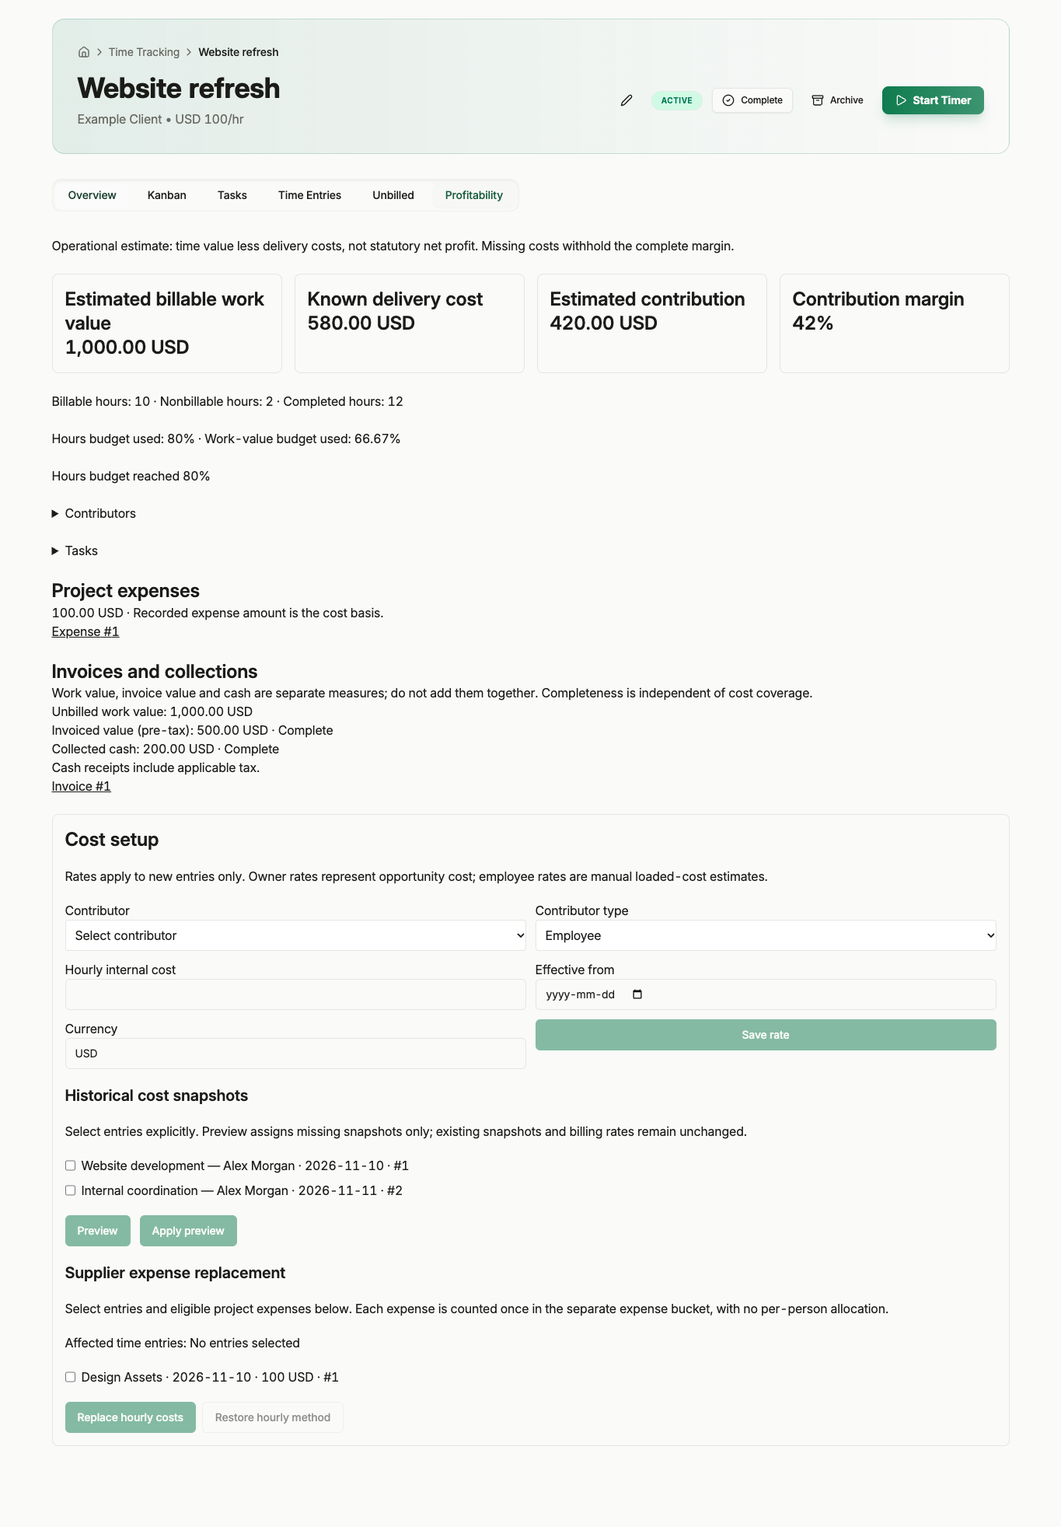
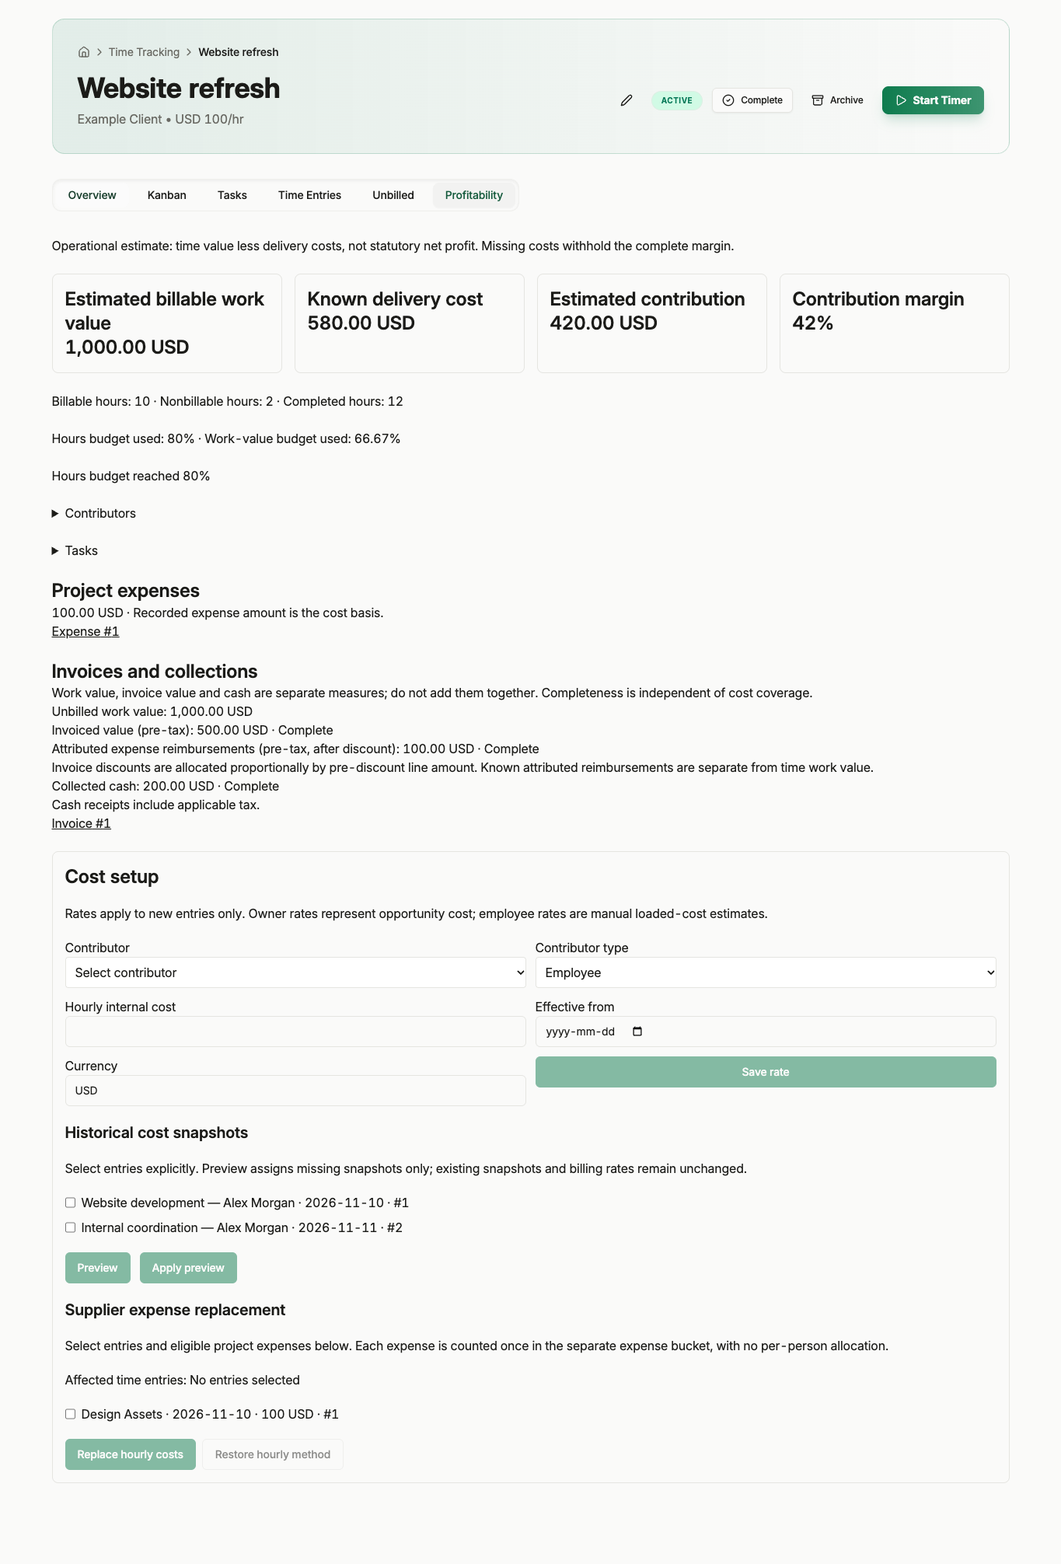
docs(projects): finalize profitability validation and decisions

diff --git a/docs/test-reports/project-profitability-2026-11-12/VALIDATION.md b/docs/test-reports/project-profitability-2026-11-12/VALIDATION.md
@@ -1,0 +1,130 @@
+# Task 7 — backend integration and delivery evidence
+
+## Result and source identity
+
+Implementation commit: `2958cb7078451a729543060726b26e893aa4f2a9`, based on `5db4b992`. No push, merge, release, or deployment. Documentation/screenshots/localized reason text: `a773f96b6fa1a20ebc018b16a599bd5548b7ba31`; final build documentation: `569dd866` (HEAD). Production/test source remains `2958cb70`.
+
+Remote tests used the existing `yourfinanceworks-api:latest` image ID `sha256:f3e54079e8b0665a8da9419e2471b84c23043fa0640fb43897bea3d01d23f54e`. Candidate source was mounted readonly at `/candidate`; Python path explicitly prioritized `/candidate/api` and the copied pytest runner. No packages were installed. Importing the real router and authentication dependency succeeded with isolated nonproduction secrets. The shared API conftest was never loaded (`--noconftest`).
+
[1 lines of base64/hex data omitted]
+
+## Implemented verification and small fixes
+
+- New integration file imports actual FastAPI routers and uses actual JWT validation, actual `get_current_user`, actual tenant `get_db`, and real isolated master/two-tenant ORM databases. Only database factories are redirected; authentication is never overridden. It exercises two contributor rates, manual creation, CSV import, timer start/stop, supplier replacement, legacy preview/apply, invoice generation, canonical partial-payment records, and the final profitability read. It verifies unauthenticated/invalid tokens, ordinary-member cost denial, cross-tenant selection denial, foreign tenant absence, ordinary API responses, and CSV export without private cost fields. The fixture's tenant-context middleware substitutes for full application tenant middleware; this does not claim verification of the complete application middleware stack.
+- Actual disposable PostgreSQL test invokes Alembic `env.py`, stamps 027, upgrades through 028/029/030, preserves legacy monetary rows/unknown costs, and checks additive table column/nullability parity with new-tenant metadata. Each run creates and drops a uniquely named disposable schema, never shared service schemas. Earlier tests separately create new-tenant ORM tables and compare the migration schema.
+- PostgreSQL transaction races: synchronize two actual rate inserts after both pass existence checks; exactly one succeeds and the other returns 409. A savepoint now translates the unique-key race to the friendly conflict without masking unrelated integrity errors. A strengthened test simultaneously applies one two-entry preview twice; project/entry locking yields one application and one stale-preview 409, with both snapshots present exactly once. **Strengthened test: 1 passed in 4.55s**.
+- HTTP multi-entry stale preview test changes one selected entry and proves neither receives a snapshot after 409.
+- Source uniqueness now checks distinct invoice lines attempting to reuse one time/expense source. Plugin-absent subprocess exercises actual loader model import/router registration and metadata creation.
+- Tests resolve repository sources from `__file__`, supporting the specified `cd api` command. Removed brittle creation-path spelling assertions now superseded by HTTP behavior.
+- Billing reads batch invoices/items/provenance/payments, retaining the existing low-query empty-invoice path. Status reasons distinguish unsupported ordinary invoice states from credit/refund states. Query-scaling regression verifies a constant number of queries from 1 to 12 invoices.
+- Controller browser checks found async time-entry links could need scrolling after rows loaded. Added a location-aware, tested hook selecting Time Entries and scrolling when the row exists. Existing row anchors are retained. Invoice links use canonical `/invoices/view/:id` (the older route also redirects correctly).
+- Controller mobile check found header actions/tabstrip overflow. Project actions wrap; the tab strip scrolls inside its bounded width. No broad shared-layout redesign.
+
+## Commands and results
+
+Remote container environment: `PYTHONPATH=/candidate/api:/test-runner PYTEST_DISABLE_PLUGIN_AUTOLOAD=1 PYTHONDONTWRITEBYTECODE=1 LICENSE_PUBLIC_KEY_V2=test SECRET_KEY=profitability-isolated-test-secret-not-production JWT_SECRET_KEY=profitability-isolated-test-secret-not-production DATABASE_URL=postgresql://postgres:task1-disposable@127.0.0.1:5432/postgres UPLOAD_PATH=/tmp/attachments`. PostgreSQL tests additionally set the explicit `PROFITABILITY_TEST_DATABASE_URL` to that disposable URL and use `--network container:yfw-profitability-task1-pg`. HTTP-only/query tests use `--network none`; HTTP fixture databases are disposable SQLite files.
+
+From `/candidate/api`:
+
+```sh
+python -m pytest --noconftest -o addopts= -o cache_dir=/tmp/pytest-cache \
+  tests/test_project_profitability_migration.py tests/test_project_cost_permissions.py \
+  tests/test_project_cost_lifecycle.py tests/test_project_profitability.py \
+  tests/test_project_invoice_attribution.py tests/test_project_profitability_integration.py -q
+```
+
+**113 passed**. Separate final additions: concurrent rate/backfill test **1 passed**; committed query-scaling regression **1 passed**. All 114 current cases have passing evidence, though the final extra test was deliberately run focused rather than repeating the two-minute HTTP fixture suite. Initial actual HTTP/auth-only run: **4 passed in 120.34s**.
+
+Local cwd `api`, copied venv, plugin autoload disabled, same first five files: **107 passed, 2 skipped in 5.36s** before the final extra query test (which passed independently). Skips require explicit disposable PostgreSQL configuration. Local environment lacks some production dependencies, so real HTTP imports use the production-dependency image instead. No dependency installs attempted.
+
+Red/green: introduced batching initially exceeded the existing no-invoice query budget (11 versus at most 7); restored the no-invoice fast path and the focused suite passed. For the new scaling regression, temporarily restoring the pre-fix `5db4b992` attribution module produced **1 failed**, 41 queries for 12 invoices versus 8 for one. Restoring the committed batching implementation produced **1 passed** (0.65s). No claim of a pre-fix red run is made for the concurrency/HTTP tests.
+
+Frontend: existing local binary `ui/node_modules/.bin/vitest run` over `ProjectProfitability.test.tsx`, `ProjectCostSetup.test.tsx`, `profitability-hooks.test.tsx`, and `useProjectEntryLink.test.tsx`: **4 files, 18 passed in 1.51s**. Scoped ESLint of the new hook/test and profitability component passes. ProjectDetail retains its pre-existing three `no-explicit-any` findings; no new ones were added. `git diff --check` passes.
+
+Task 6 independently compared full lint baseline/current at **1,377 existing problems** and reproduced root build failures from unrelated untracked statement-tools imports against archived unchanged source. Its clean-source build passed. Controller final clean-source `npm run build` completed with exit 0 in 1.75s on the integration-stage source, with existing dynamic-import warnings. See Task 6 report for comparison commands/logs.
+
+## Browser evidence and boundaries
+
+Controller captured five actual Chrome screenshots using source components/hooks/translations/styles with synthetic HTTP fixtures: complete, incomplete, empty, ordinary-member unauthorized, and 390px mobile. After the scoped responsive fixes, all scenarios had zero page errors and the mobile document stayed within viewport width. Screenshots and their exact fixture boundary are in `docs/test-reports/project-profitability-2026-11-12/README.md`. This is real browser presentation and frontend authorization handling, not a deployed backend browser session.
+
+Partial payment is registered via the canonical tenant Payment ORM model in the HTTP integration flow. The independently licensed/notification-bearing payment HTTP route is not mounted by that isolated app. Expenses are likewise seeded ORM records rather than exercising the separate expense-creation HTTP router. Ordinary time creation/import/timer and project invoice generation are actual HTTP routes. Generic monthly time export is actual HTTP. Client portal/MCP/notification runtime was not exercised by this task; source/schema exclusions and prior focused checks are narrower evidence. Full production middleware, live-service tenant migration, real provider integrations, and customer data were not touched.
+
+Feature documentation describes operational cost basis, supplier expense reconciliation, missing-only historical backfill, authorization, unsupported fixed/retainer modes, and unallocated invoice/payment limitations. TODO records implemented branch scope without claiming deployment. This feature and migrations warrant a normal feature release/version assessment and release notes; no publishing is authorized here. Whole-branch review remains the controller's next gate.
+
+Controller reported independent Task 7 review approved with no Critical/Important findings; whole-branch review is in progress.
+
+
+# Final review fixes
+
+# Final review fixes
+
+Base: `569dd866`, branch `feat/hourly-project-profitability-local`. One focused fix wave addresses the two Important and two Minor final-review findings. No push, deployment, production migration, dependency installation, or release.
+
+## Changes
+
+- **Important 1:** `TimeEntryCostExpense.expense_id` now preserves the historical expected expense ID independently of the live expense row. Migration031 removes only the cascading expense foreign key, retaining the entry FK and all existing link rows; new-tenant metadata matches. Existing protected replacement validation still requires active, same-project, matching-currency expenses. A missing expected ID keeps supplier time unresolved even when another linked expense survives. Explicit administrator replacement removes obsolete links and retains their IDs in private revision history.
+- **Important 2:** private billing summaries now expose `expense_reimbursements_pre_tax` separately. Fully attributed expense-line amounts receive their proportional share of supported invoice discounts according to pre-discount line amounts. Each invoice's resulting reimbursement is rounded to project-currency precision. Unsupported/incompletely attributed invoices contribute no reimbursement; previously known invoices retain known totals with an incomplete indicator. Time work value and contribution are unchanged. The UI labels pre-tax/after-discount amounts and discloses the allocation basis in all four existing locales.
+- **Minor 1:** rate save, preview, apply, supplier replacement, and hourly restoration each have localized action-specific failure guidance. Only an apply409 receives stale-preview refresh guidance. Multi-entry replacement errors acknowledge that not all selected entries may have succeeded.
+- **Minor 2:** setup forms, action handlers, contributor/task breakdowns, and billing JSX are expanded for reviewability, with no redesign. Feature documentation records reimbursement rules and migrations028–031.
+
+## Verification
+
+Never loaded the shared destructive API conftest. Local backend environment prefix for all commands:
+
+```sh
+PYTHONPATH=api PYTHONDONTWRITEBYTECODE=1 LICENSE_PUBLIC_KEY_V2=test PYTEST_DISABLE_PLUGIN_AUTOLOAD=1 \
+/private/tmp/yfw-profitability-venv/bin/python -m pytest --noconftest -o addopts= -o cache_dir=/tmp/yfw-final-cache
+```
+
+1. Prefix plus `api/tests/test_project_cost_permissions.py api/tests/test_project_cost_lifecycle.py api/tests/test_project_profitability.py api/tests/test_project_invoice_attribution.py api/tests/test_project_profitability_migration.py -q`: **116 passed, 2 skipped in 5.89s**. The two skips require explicit disposable PostgreSQL configuration. This covered the new FK-enabled soft-delete→hard-delete of one of two supplier links, retained missing coverage, and explicit relink recovery with private history; six mixed/expense-only percentage/fixed/capped-discount cases; actual migrated expense deletion; and existing feature regressions.
+2. After strengthening assertions to check unchanged time work value, partial known reimbursement totals, and metadata FK parity, prefix plus `api/tests/test_project_invoice_attribution.py api/tests/test_project_profitability_migration.py -q`: **49 passed, 1 skipped in 3.22s**. This adds one parameterized expense-only known-total case.
+3. After further strengthening the migration regression to insert both links **before** migration031, prefix plus `api/tests/test_project_profitability_migration.py::test_migrated_supplier_evidence_survives_actual_expense_delete -q`: **1 passed in 0.51s**. Both pre-existing rows survive table migration and the subsequent actual delete.
+
+Remote candidate source: `/tmp/yfw-profitability-xz3dwgya/final-source`, readonly `/candidate`. Existing API image `yourfinanceworks-api:latest` and existing copied pytest runner; no package installs. Disposable PostgreSQL container `yfw-profitability-task1-pg`, never application databases. Command wrapper:
+
+```sh
+ssh -o BatchMode=yes -o ConnectTimeout=10 hao@10.0.0.165 \
+'docker run --rm --network container:yfw-profitability-task1-pg \
+-v /tmp/yfw-profitability-xz3dwgya/final-source:/candidate:ro \
+-v /tmp/yfw-profitability-xz3dwgya/runner:/test-runner:ro -w /candidate/api \
+-e PYTHONPATH=/candidate/api:/test-runner -e PYTEST_DISABLE_PLUGIN_AUTOLOAD=1 \
+-e PYTHONDONTWRITEBYTECODE=1 -e LICENSE_PUBLIC_KEY_V2=test \
+-e SECRET_KEY=profitability-isolated-test-secret-not-production \
+-e JWT_SECRET_KEY=profitability-isolated-test-secret-not-production \
+-e DATABASE_URL=postgresql://postgres:task1-disposable@127.0.0.1:5432/postgres \
+-e PROFITABILITY_TEST_DATABASE_URL=postgresql://postgres:task1-disposable@127.0.0.1:5432/postgres \
+-e UPLOAD_PATH=/tmp/attachments yourfinanceworks-api:latest \
+python -m pytest --noconftest -o addopts= -o cache_dir=/tmp/pytest-cache TEST_FILES -q'
+```
+
+- `TEST_FILES=tests/test_project_profitability_migration.py tests/test_project_profitability.py tests/test_project_invoice_attribution.py`: **82 passed in 19.75s**. Actual Alembic env.py traversal027→031, PostgreSQL migrated delete, new-tenant metadata, and all new calculation/relink tests passed. Remote source includes all final production changes; the later test-only assertion strengthening and extra parameterized case above were verified locally.
+
+Red/green proof: extracted `git archive 569dd866 api` to `/private/tmp/yfw-final-red-mjvaz7ov`, copied only the two new test files, and ran the supplier soft→hard-delete test and mixed fixed-discount reimbursement test with the same isolated local Python/environment. **2 failed in 0.84s**, respectively falsely complete supplier coverage and missing reimbursement field. Ran those exact node IDs against the final candidate: **2 passed in 0.76s**. No candidate source was temporarily reverted.
+
+Frontend commands from `ui`:
+
+```sh
+node_modules/.bin/vitest run \
+ src/plugins/time_tracking/plugin/ui/components/ProjectProfitability.test.tsx \
+ src/plugins/time_tracking/plugin/ui/components/ProjectCostSetup.test.tsx \
+ src/plugins/time_tracking/plugin/ui/profitability-hooks.test.tsx \
+ src/plugins/time_tracking/plugin/ui/useProjectEntryLink.test.tsx
+node_modules/.bin/eslint \
+ src/plugins/time_tracking/plugin/ui/components/ProjectCostSetup.tsx \
+ src/plugins/time_tracking/plugin/ui/components/ProjectCostSetup.test.tsx \
+ src/plugins/time_tracking/plugin/ui/components/ProjectProfitability.tsx \
+ src/plugins/time_tracking/plugin/ui/components/ProjectProfitability.test.tsx \
+ src/plugins/time_tracking/plugin/ui/profitability-api.ts
+```
+
+**4 files, 26 tests passed in 1.60s**; scoped lint exit0 with no output. The error matrix covers apply409 refresh guidance, apply500/403, preview500/409, rate-save409, supplier-replacement409, and hourly-restore409. Reimbursement UI regression checks the separately labeled amount, basis explanation, and unchanged work-value headline. Existing Vite configuration warnings remain. `git diff --check` passes.
+
+Controller independently reports final clean-source frontend build exit0 in 2.52s and all five Chrome fixture states with zero page errors/mobile overflow false. Controller inspected the mobile screenshot's separate reimbursement and allocation explanation and owns the refreshed screenshots/source README commit. These are frontend synthetic-HTTP presentation checks, not deployed-service verification. Existing Task7 integration boundaries still apply; no claim of full middleware, payment/expense-creation HTTP, MCP/portal/notification runtime, or deployed tenant migration coverage.
+
+- Same remote wrapper with `TEST_FILES=tests/test_project_cost_permissions.py tests/test_project_cost_lifecycle.py tests/test_project_profitability_integration.py`: **40 passed, 21 existing dependency/schema deprecation warnings in 122.51s**. This includes actual authenticated HTTP profitability reads, source creation/import/timers/invoice workflow, tenant authorization, private-schema boundaries, and disposable PostgreSQL concurrency. All final production files were present.
+
+All four final-review findings are addressed; no known blocking finding remains in this fix wave. Controller owns the single scoped rereview and integration decision. The feature and migrations warrant the normal feature-release/version assessment, without publishing authorization.
+
+Controller verification of final UI72538ad1: clean-source production build exited0 in2.52s; all five Chrome scenarios had zero page errors and390px mobile had no horizontal overflow. Updated screenshots include the reimbursement amount and discount basis.
+
+Final independent scoped review of569dd866..72538ad1: ready to merge; all four findings addressed, no new blocking issues. Migration031 downgrade deliberately fails if missing-expense evidence exists; rollback requires deliberate reconciliation. Reviewer inspected code/tests but did not rerun them.

diff --git a/docs/test-reports/project-profitability-2026-11-12/DECISIONS.md b/docs/test-reports/project-profitability-2026-11-12/DECISIONS.md
@@ -1,0 +1,19 @@
+# Implementation decisions
+
+These decisions were made during the approved implementation. Potential costs are included so they can be reviewed before integration.
+
+1. Use isolated dependency/test fixtures because the shared conftest drops its configured database. Cost: extra harness setup and narrower application-stack coverage.
+2. Use disposable PostgreSQL and isolated API containers, never the service database. Cost: production configuration and migration execution remain unverified.
+3. Request permission for managed-worktree writes outside writable roots. Cost: approval interruptions.
+4. Preserve historical rates and nullable source references rather than cascading their deletion. Cost: retained internal history needs normal retention controls.
+5. A supplier entry linked to an excluded/rejected expense remains unresolved. Cost: estimates remain incomplete until an administrator reconciles the links.
+6. Unsupported refunds/credits remain unallocated. Cost: collections reporting is incomplete for those invoices.
+7. After worktree-write approval was aborted, move only scoped candidates to the writable checkout on a feature branch, preserving the managed worktree. Cost: an extra recovery worktree remains.
+8. Repair migration025's parent identifier to the actual024 revision. Cost: historical migration graph change requires deployment review.
+9. Add private revision table029 for cost-method replacement history. Cost: another tenant migration and retained sensitive audit storage.
+10. Add durable invoice links and fingerprints in030. Cost: additional storage and conservative unresolved states after invoice edits.
+11. Implement separately attributed reimbursements required by the approved spec but omitted from the plan; allocate supported discounts proportionally and label the basis. Cost: that operational allocation may differ from a customer's accounting allocation.
+
+12. Preserve supplier expense IDs after expense deletion via migration031, with live links validated on explicit replacement. Cost: historical IDs intentionally outlive their expense rows; administrators must reconcile missing expenses.
+
+No production migration, release, push, or deployment was performed. See VALIDATION.md for evidence and limitations.

diff --git a/docs/test-reports/project-profitability-2026-11-12/README.md b/docs/test-reports/project-profitability-2026-11-12/README.md
@@ -2,9 +2,9 @@
 
 Captured in installed Chrome using the actual `ProjectDetailInternal`, profitability components, hooks, translations, styles, and timer provider. Synthetic API responses supplied an owner, an hourly project, two time entries, and one expense; no customer data was used.
 
-Source: `2958cb7078451a729543060726b26e893aa4f2a9`, including the integration-stage entry-link scrolling and responsive header/tab changes. A temporary source-only Vite checkout excluded unrelated local plugins. Only its cache path and HMR port were overridden for local execution. This verifies browser presentation and frontend access handling, not deployed API behavior; backend authenticated HTTP and database tests are reported separately.
+Source: `72538ad1`, including final supplier-evidence, reimbursement display, action-error and readability fixes. A temporary source-only Vite checkout excluded unrelated local plugins. Only its cache path and HMR port were overridden for local execution. This verifies browser presentation and frontend access handling, not deployed API behavior; backend authenticated HTTP and database tests are reported separately.
 
-- [Complete](complete.png): 1,000 USD work value, 580 USD known cost, 420 USD contribution, 42% margin; invoice and cash amounts remain separate.
+- [Complete](complete.png): 1,000 USD work value, 580 USD known cost, 420 USD contribution, 42% margin; invoice and cash amounts remain separate; attributed reimbursements show 100 USD with their proportional discount basis.
 - [Incomplete](incomplete.png): missing costs withhold contribution/margin and show unresolved records.
 - [Empty](empty.png): zero work/cost values and unavailable percentage margin render without errors.
 - [Unauthorized](unauthorized.png): ordinary tenant member does not receive the profitability tab or its controls.

diff --git a/docs/superpowers/plans/2026-11-12-hourly-project-profitability.md b/docs/superpowers/plans/2026-11-12-hourly-project-profitability.md
@@ -138,4 +138,4 @@ Protected routes under `/api/v1/projects`: `GET/POST /cost-rates`, `POST /{proje
 
 Covered all approved design sections: costs/permissions (1–3), historical behavior (2–3), supplier replacement (3–4), contribution and budgets (4), invoice/cash attribution (5), interface and localization (6), migrations and delivery evidence (1,7). Each Review Focus condition has an owning test task. Fixed-price/retainer scope remains deferred. Known repository gaps are handled explicitly, rather than assuming a full refund ledger or working expense ORM mapping already exists.
 
-Execution method remains to be selected by the user. Recommendation: subagent-driven implementation because this feature introduces sensitive financial data and several boundaries that benefit from independent task review.
+Execution used the user-approved subagent-driven method. Tasks 1–7 are implemented and independently reviewed. The original checklists above retain the planned commands; actual commands, test coverage, justified substitutions, and unverified boundaries are recorded in [the validation report](../../test-reports/project-profitability-2026-11-12/VALIDATION.md). In particular, focused backend runs use `--noconftest`, and live client portal/provider/middleware behavior was not claimed. Whole-branch review and the scoped final-fix re-review are complete: all four findings addressed, no remaining blocking issues. Implementation is ready for integration; no push, merge, deployment, or production migration has occurred.
